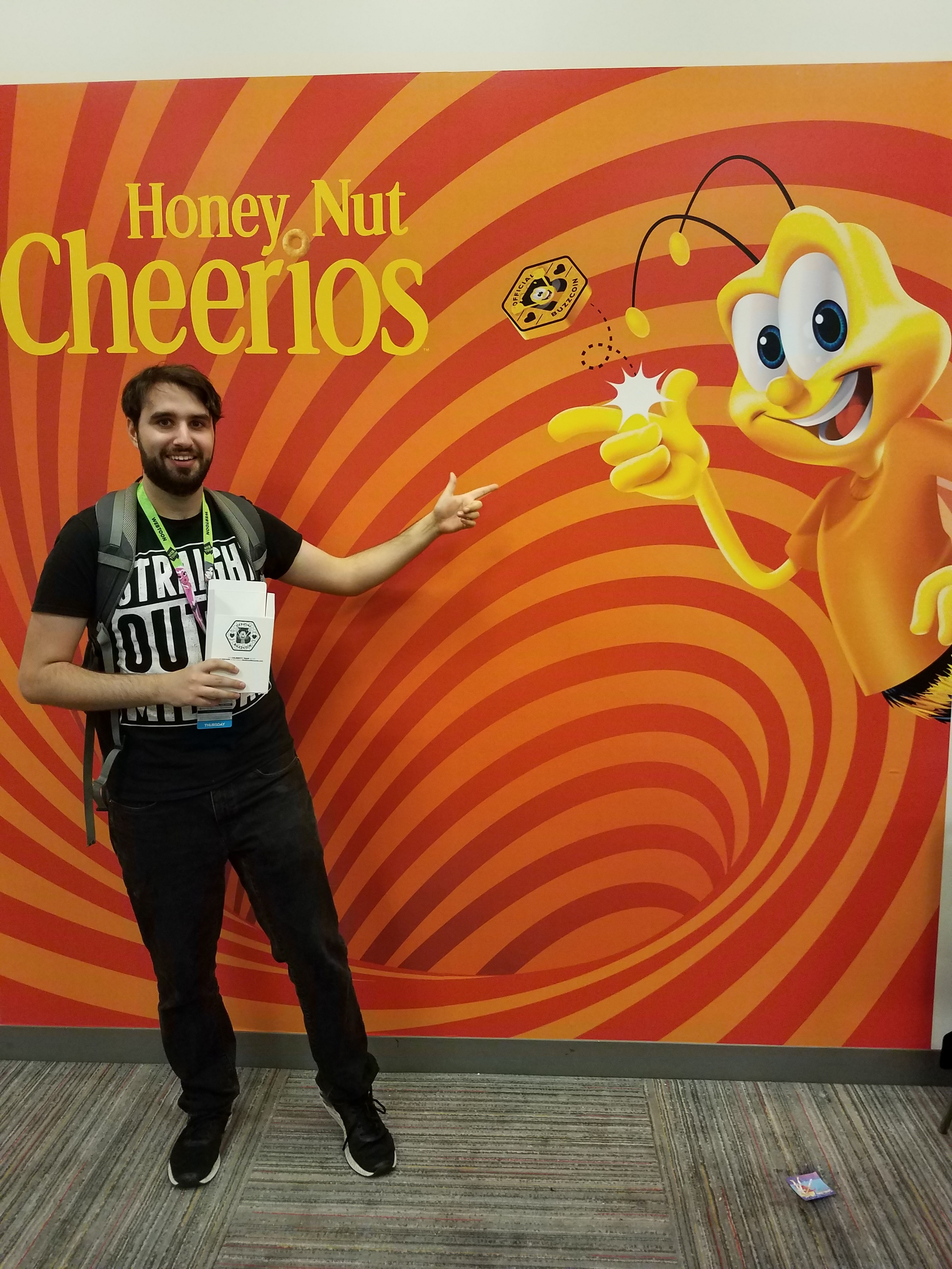
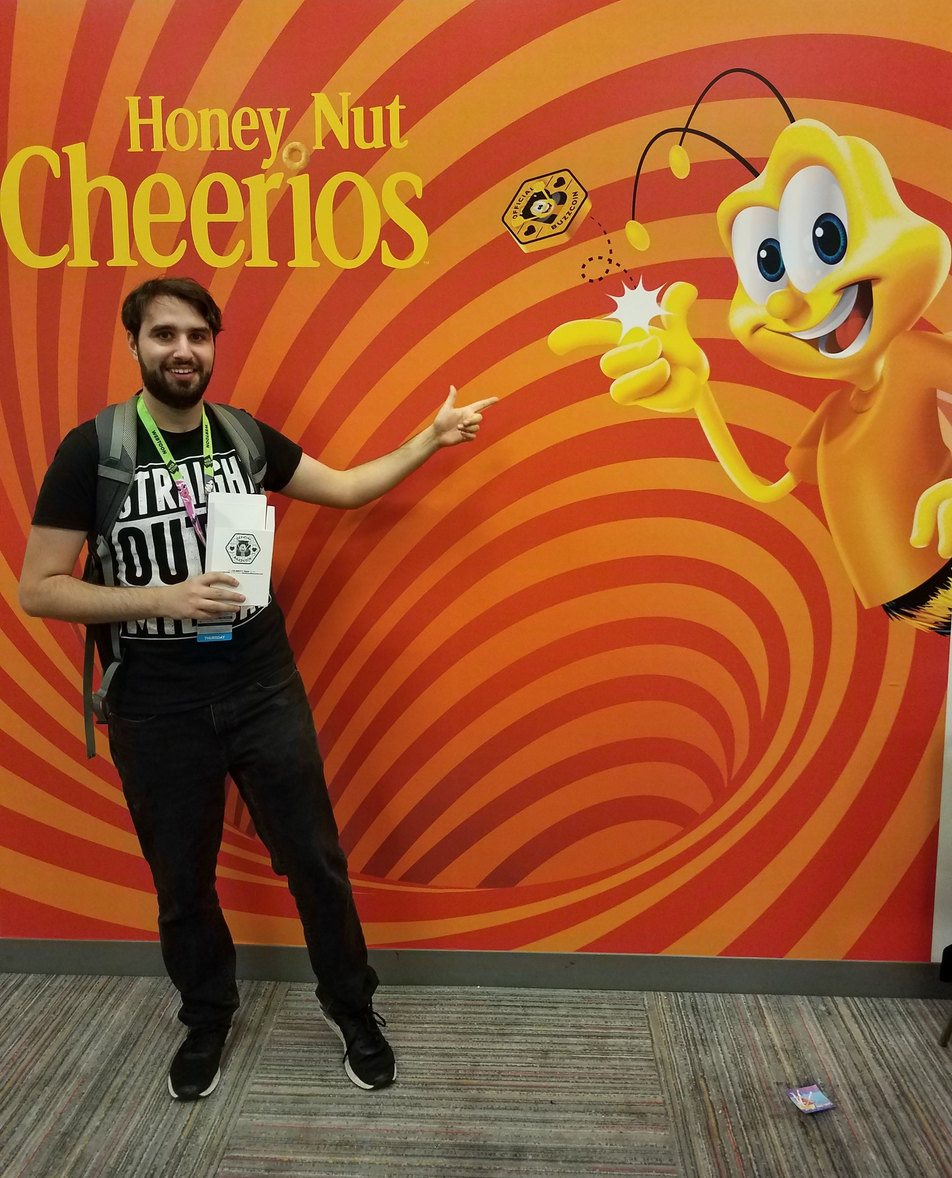
Look and feel updates
Better Honey Nut Cheerio picture and actually fixing footer spacing

diff --git a/_includes/footer.html b/_includes/footer.html
@@ -6,7 +6,7 @@
     <div class="footer-col-wrapper">
       <div class="footer-col-xs-12">
 		Check out Andrew on GitHub and LinkedIn!
-		<br/>
+		<br></br>
 		{%- include social.html -%}
       </div>
     </div>
